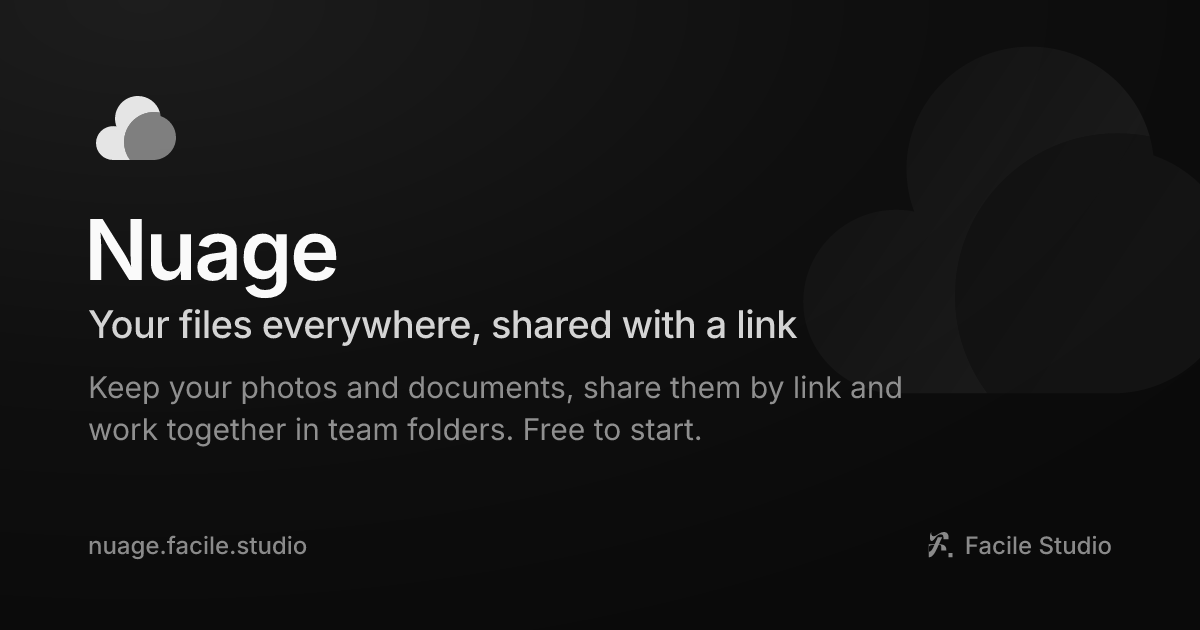
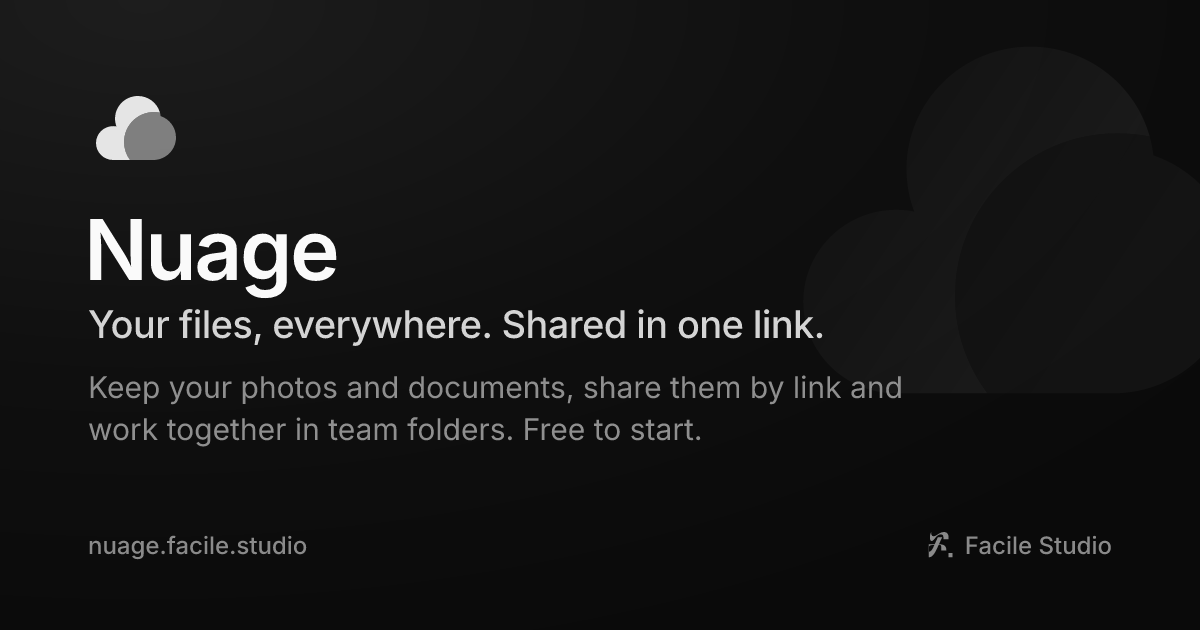
🐛 fix(client): keep the hero toast and empty state off the photos
Hide the empty state until the photos have faded and while an upload runs, move the Link copied toast under the window, link the developer block to the Suite self-hosting page, bump muse to v0.25.1 and take the regenerated link preview image.

Changed region(s): [[0.2158, 0.4825, 0.6783, 0.5429]]

diff --git a/apps/client/src/lib/components/landing/AlbumShare.svelte b/apps/client/src/lib/components/landing/AlbumShare.svelte
@@ -1,5 +1,5 @@
 <script lang="ts">
-	import { fade, fly, scale } from 'svelte/transition';
+	import { fade, scale } from 'svelte/transition';
 	import { Roll } from '@facile/mise-en-scene';
 	import { Icon, icons } from '@facile/muse';
 	import { nuage } from '$lib/icons';
@@ -8,12 +8,11 @@
 	interface Props {
 		open: boolean;
 		week: boolean;
-		copied: boolean;
 		expiry?: HTMLElement;
 		create?: HTMLElement;
 	}
 
-	let { open, week, copied, expiry = $bindable(), create = $bindable() }: Props = $props();
+	let { open, week, expiry = $bindable(), create = $bindable() }: Props = $props();
 </script>
 
 {#if open}
@@ -34,13 +33,6 @@
 				</span>
 			</div>
 		</div>
-	</div>
-{/if}
-
-{#if copied}
-	<div class="as-toast" transition:fly={{ y: 12, duration: 320 }}>
-		<Icon icon={nuage.link} size={16} />
-		<span>{t('shared.copied')}</span>
 	</div>
 {/if}
 
@@ -119,23 +111,5 @@
 	.as-primary {
 		background: var(--color-fc-accent);
 		color: var(--color-fc-accent-fg);
-	}
-	.as-toast {
-		position: absolute;
-		bottom: 20px;
-		left: 50%;
-		z-index: 4;
-		display: flex;
-		align-items: center;
-		gap: 8px;
-		padding: 10px 16px;
-		border-radius: 999px;
-		background: var(--color-fc-inverse);
-		color: var(--color-fc-on-inverse);
-		font-family: var(--font-fc-body);
-		font-size: 13px;
-		white-space: nowrap;
-		translate: -50% 0;
-		box-shadow: 0 12px 28px -10px rgb(0 0 0 / 0.35);
 	}
 </style>

diff --git a/apps/client/src/lib/components/landing/AlbumToast.svelte b/apps/client/src/lib/components/landing/AlbumToast.svelte
@@ -1,0 +1,37 @@
+<script lang="ts">
+	import { fly } from 'svelte/transition';
+	import { Icon } from '@facile/muse';
+	import { nuage } from '$lib/icons';
+	import { t } from '$lib/i18n/index.svelte';
+
+	let { show }: { show: boolean } = $props();
+</script>
+
+{#if show}
+	<div class="at-toast" transition:fly={{ y: 12, duration: 320 }}>
+		<Icon icon={nuage.link} size={16} />
+		<span>{t('shared.copied')}</span>
+	</div>
+{/if}
+
+<style>
+	.at-toast {
+		position: absolute;
+		bottom: 6px;
+		left: 50%;
+		z-index: 20;
+		display: flex;
+		align-items: center;
+		gap: 8px;
+		height: 34px;
+		padding: 0 16px;
+		border-radius: 999px;
+		background: var(--color-fc-inverse);
+		color: var(--color-fc-on-inverse);
+		font-family: var(--font-fc-body);
+		font-size: 13px;
+		white-space: nowrap;
+		translate: -50% 0;
+		box-shadow: 0 12px 28px -10px rgb(0 0 0 / 0.35);
+	}
+</style>

diff --git a/apps/client/src/lib/components/landing/AlbumDemo.svelte b/apps/client/src/lib/components/landing/AlbumDemo.svelte
@@ -5,6 +5,7 @@
 	import { nuage } from '$lib/icons';
 	import AlbumPane from './AlbumPane.svelte';
 	import AlbumShare from './AlbumShare.svelte';
+	import AlbumToast from './AlbumToast.svelte';
 	import Photo from './Photo.svelte';
 	import { t } from '$lib/i18n/index.svelte';
 
@@ -117,7 +118,7 @@
 {#snippet body(compact: boolean)}
 	<div class="ad-body">
 		<AlbumPane {compact} {total} {done} {uploading} {overlay} bind:grid bind:shareButton />
-		<AlbumShare open={dialog} {week} {copied} bind:expiry bind:create />
+		<AlbumShare open={dialog} {week} bind:expiry bind:create />
 	</div>
 {/snippet}
 
@@ -152,6 +153,7 @@
 			<Photo scene={0} class="ad-card ad-card-3" />
 			<span class="ad-count">{total}</span>
 		</div>
+		<AlbumToast show={copied} />
 		<Cursor {cursor} />
 	{/snippet}
 </Stage>

diff --git a/apps/client/src/routes/+page.svelte b/apps/client/src/routes/+page.svelte
@@ -134,7 +134,7 @@
 			<WorksWith class="mx-auto w-full max-w-5xl px-4 py-16 sm:px-6 sm:py-20" {apps} />
 
 			<div id="developers" class="mx-auto w-full max-w-5xl scroll-mt-20 px-4 py-16 sm:px-6 sm:py-20">
-				<ForDevelopers rows={developers} description={t('landing.dev.text')} />
+				<ForDevelopers rows={developers} description={t('landing.dev.text')} selfHostHref={t('landing.dev.selfHost')} />
 			</div>
 			<section class="mx-auto max-w-5xl px-4 py-16 text-center sm:px-6 sm:py-24">
 				<h2 class={LANDING_HEADING}>{t('landing.ctaTitle')}</h2>

diff --git a/apps/client/src/lib/i18n/messages/landing.ts b/apps/client/src/lib/i18n/messages/landing.ts
@@ -110,6 +110,12 @@ export const landing = {
 		'Abre tus archivos desde cualquier cliente MCP en /mcp.',
 		'Öffnen Sie Ihre Dateien aus jedem MCP-Client unter /mcp.'
 	],
+	'landing.dev.selfHost': [
+		'https://suite.facile.studio/en/auto-hebergement',
+		'https://suite.facile.studio/auto-hebergement',
+		'https://suite.facile.studio/es/auto-hebergement',
+		'https://suite.facile.studio/de/auto-hebergement'
+	],
 	'landing.dev.source': [
 		'The code is open, your data stays yours.',
 		'Code ouvert, vos données restent les vôtres.',

diff --git a/apps/client/src/lib/components/landing/AlbumPane.svelte b/apps/client/src/lib/components/landing/AlbumPane.svelte
@@ -71,8 +71,8 @@
 		{/each}
 	</div>
 
-	{#if done === 0 && !overlay}
-		<div class="ap-empty" transition:fade={{ duration: 200 }}>
+	{#if done === 0 && !overlay && !uploading}
+		<div class="ap-empty" in:fade={{ duration: 200, delay: 320 }} out:fade={{ duration: 200 }}>
 			<Icon icon={icons.upload} size={24} />
 			<span class="ap-here">{t('files.emptyTitle')}</span>
 		</div>
